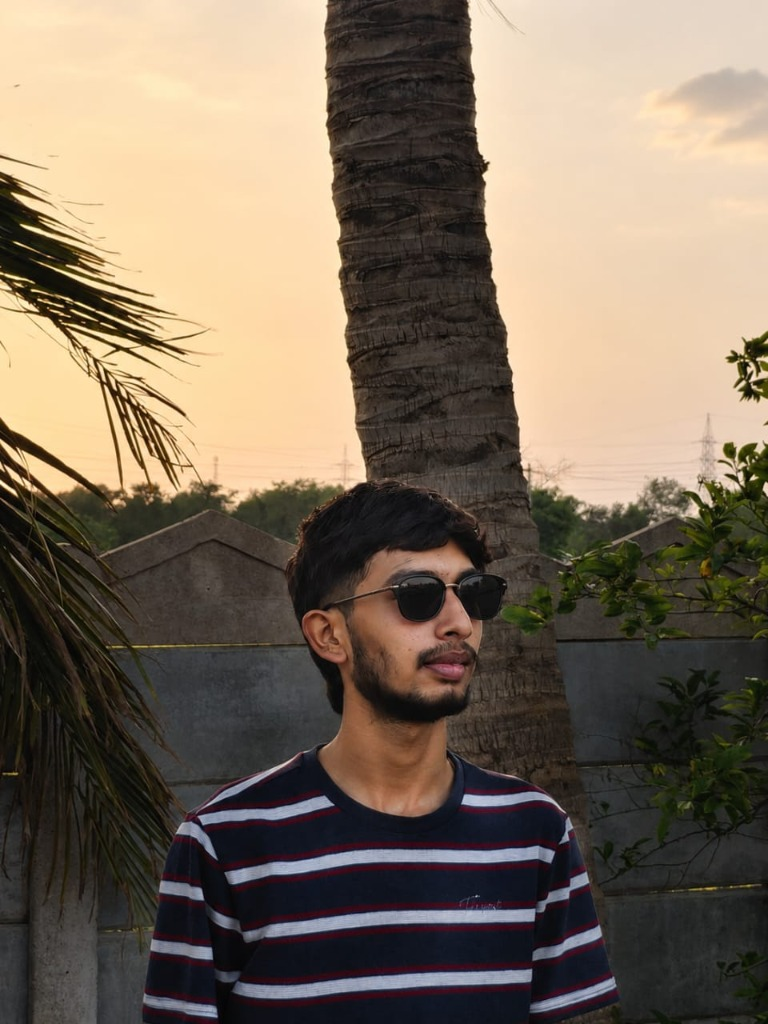
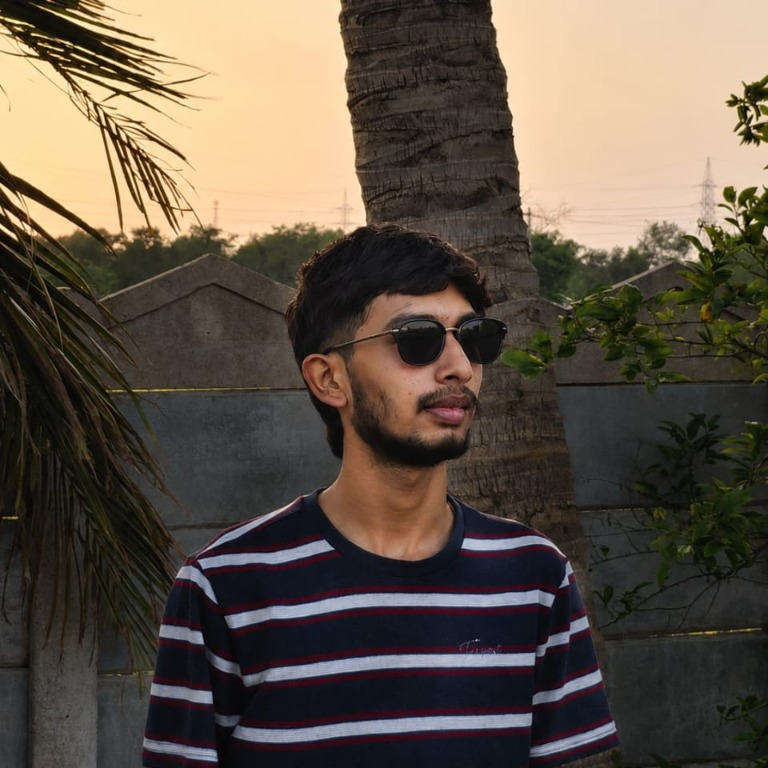
Fix profile photo aspect ratio and add object-fit styling

diff --git a/README.md b/README.md
@@ -1,5 +1,5 @@
 <div align="center">
-  <img src="https://raw.githubusercontent.com/krishdelvadiya34-design/krishdelvadiya34-design/main/assets/profile.png" width="150" height="150" style="border-radius: 50%; border: 3px solid #3498DB;" alt="Krish Delvadiya"/>
+  <img src="https://raw.githubusercontent.com/krishdelvadiya34-design/krishdelvadiya34-design/main/assets/profile.png" width="160" height="160" style="border-radius: 50%; object-fit: cover; border: 4px solid #2E9EF7;" alt="Krish Delvadiya"/>
   <br/>
   <img src="https://raw.githubusercontent.com/blackcater/blackcater/main/images/Hi.gif" width="35"/>
 </div>
